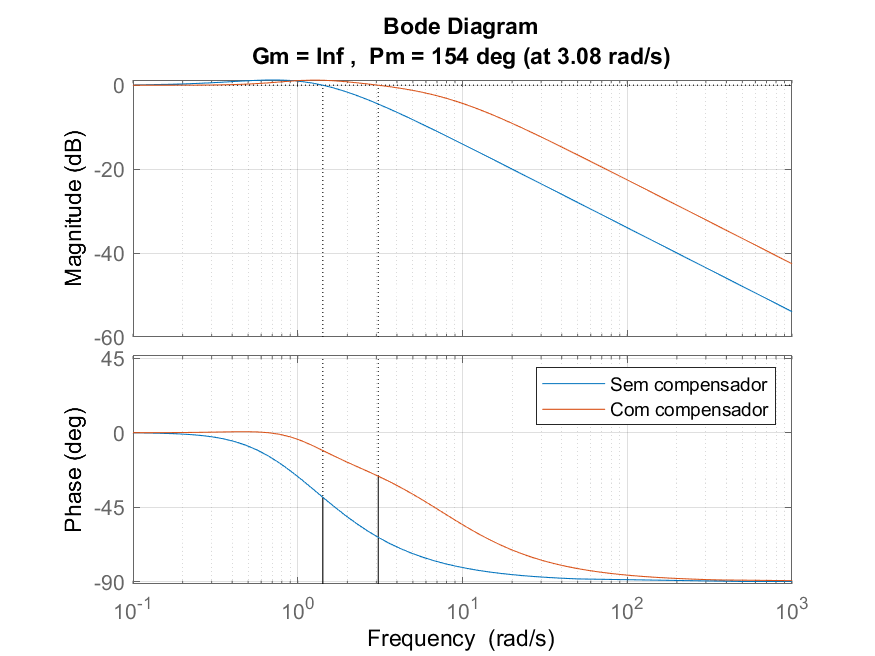
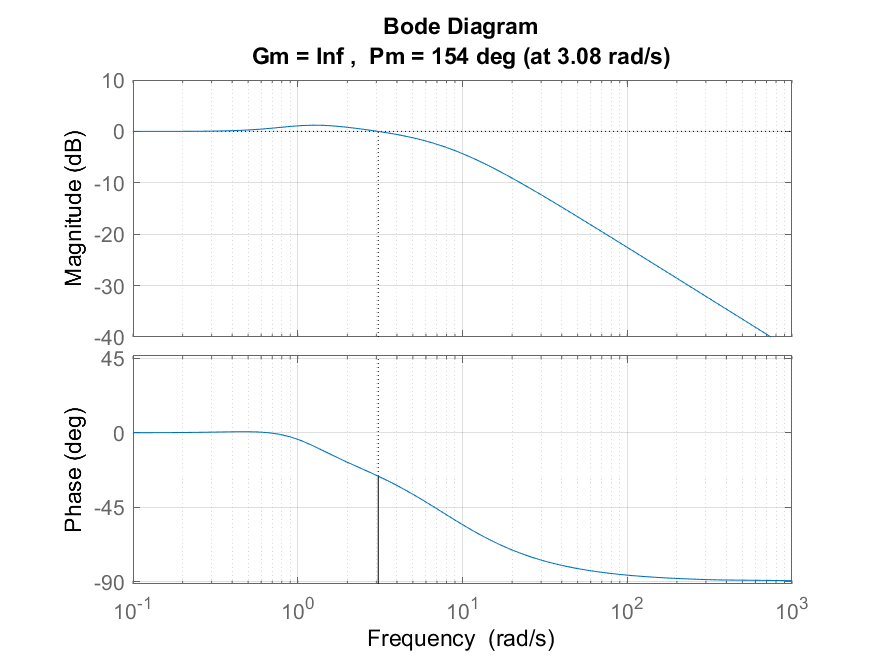
lkjhgfdsa

diff --git a/Controle Clássico/Sintonia_Lugar_das_raizes.m b/Controle Clássico/Sintonia_Lugar_das_raizes.m
@@ -199,11 +199,11 @@ Ax2 = AxAll(2);
 
 
 figure(2)
-margin(syskdmf)
-hold on
+% margin(syskdmf)
+% hold on
 margin(syskdmfKc)
 grid on
-legend('Sem compensador','Com compensador','location','northeast')
+%legend('Sem compensador','Com compensador','location','northeast')
 baseFileName = sprintf('Image_%s.png', "Margem_LR");
 fullFileName = fullfile("Imagens\", baseFileName);
 saveas(2, fullFileName);
